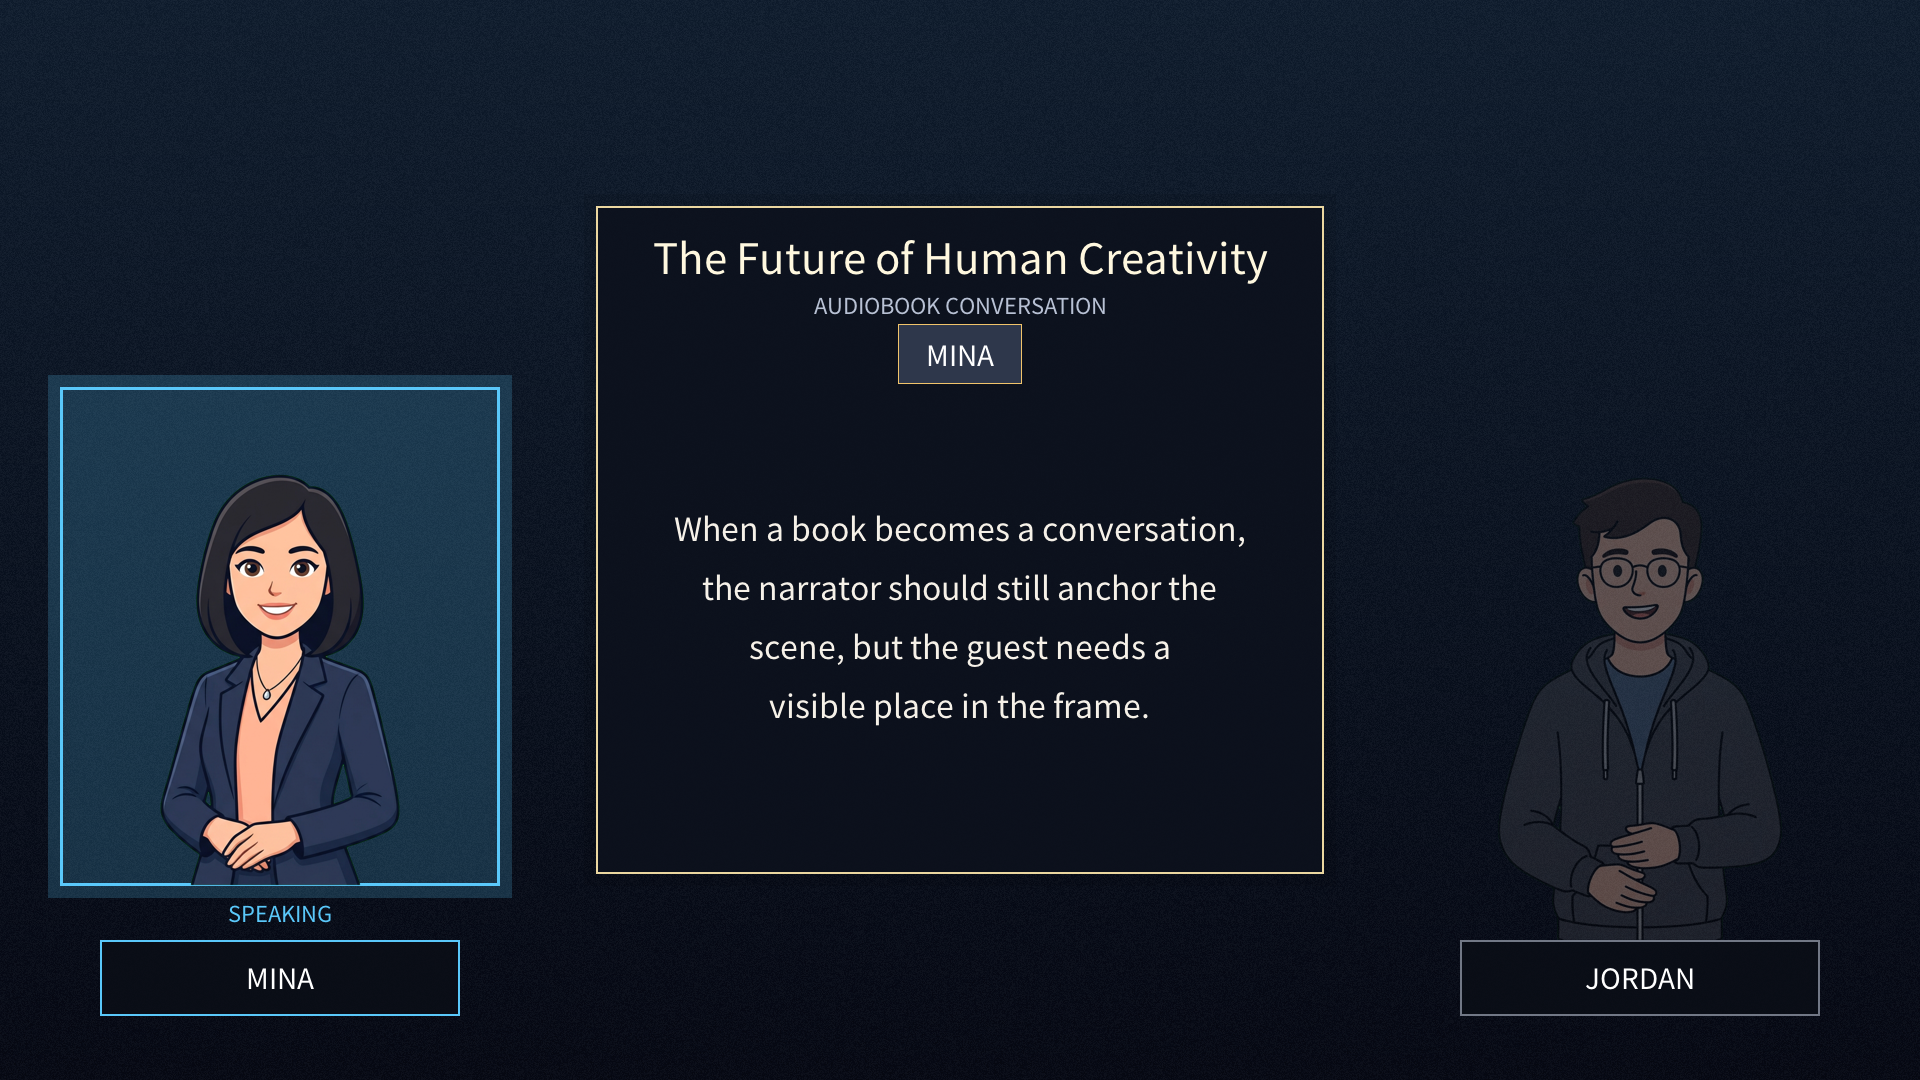
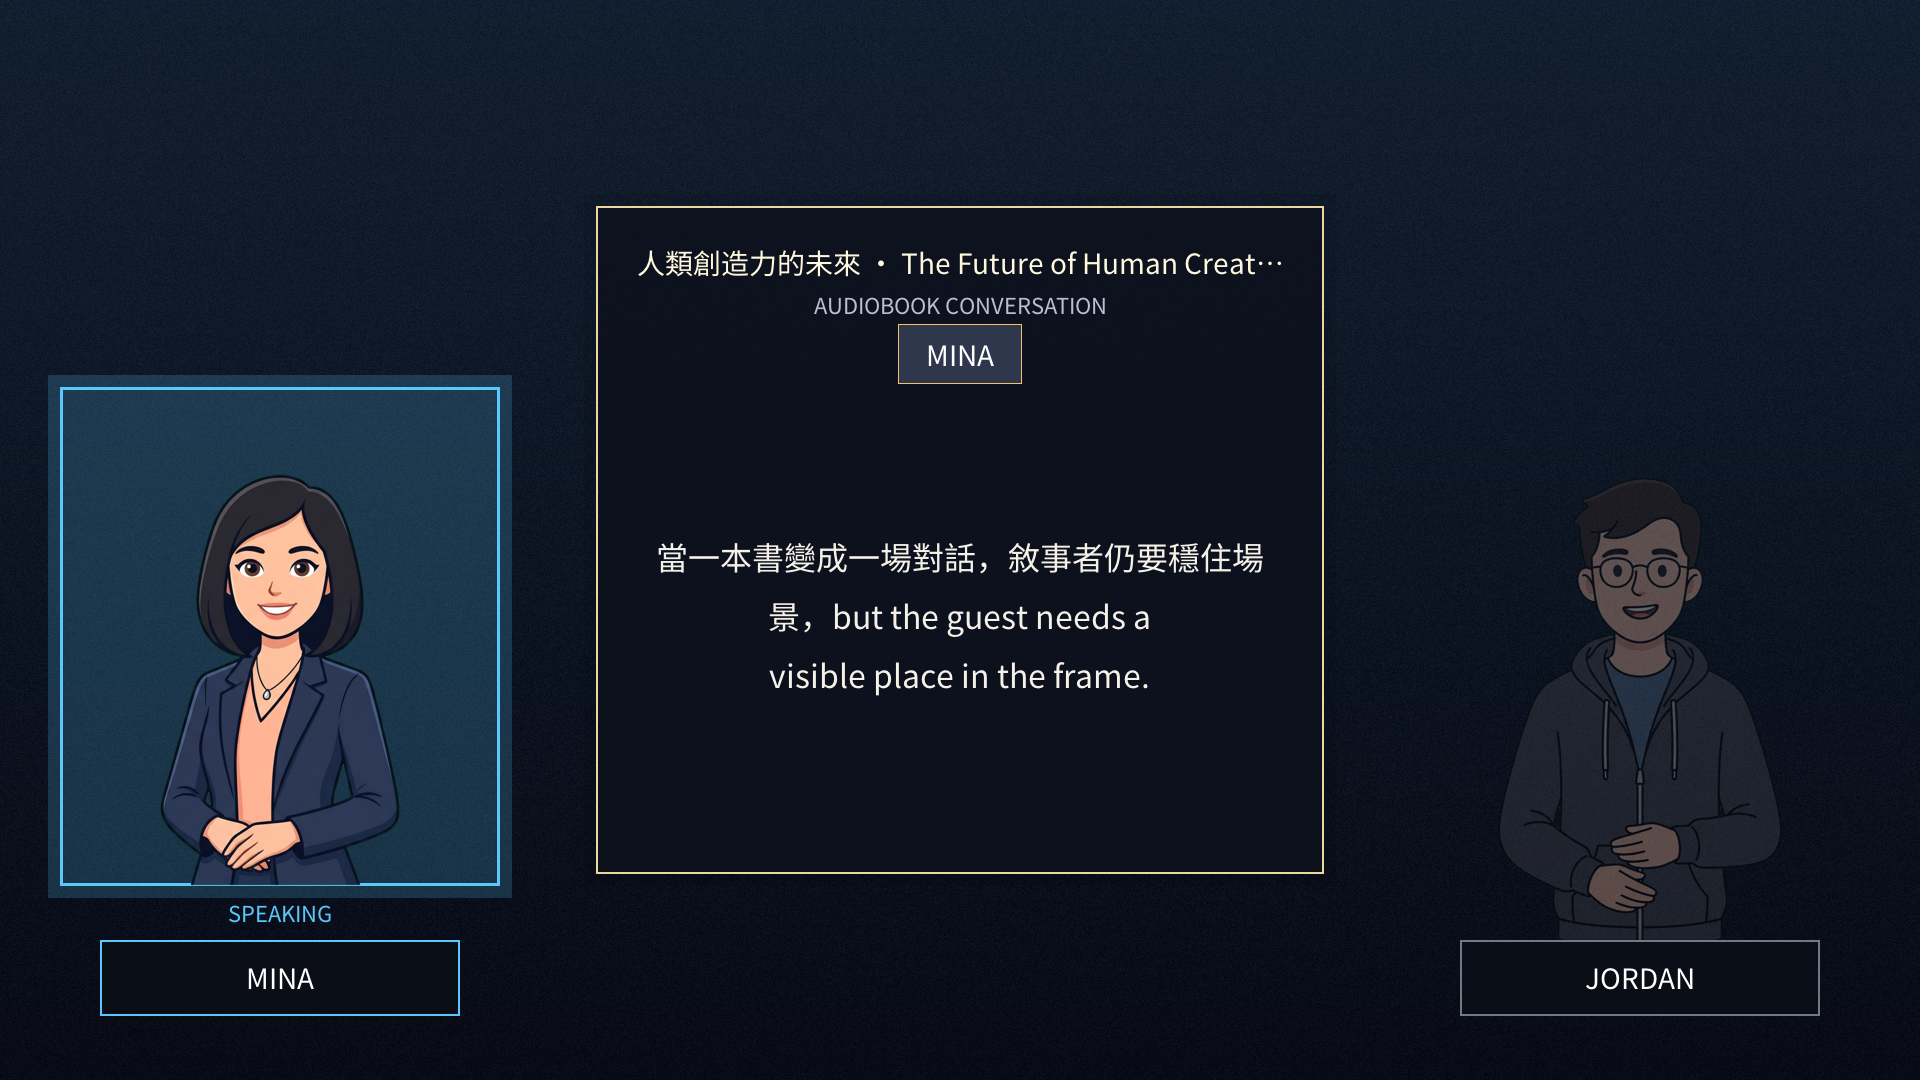
fix: cjk font in docker

Changed region(s): [[0.3438, 0.4583, 0.6562, 0.6722], [0.3438, 0.2139, 0.6562, 0.275]]

diff --git a/cmd/render-smoke/main.go b/cmd/render-smoke/main.go
@@ -13,7 +13,9 @@
 //	  out/puzzle-render-smoke/.
 //	--mode audiobook: emits an mp4 for the audiobook conversational
 //	  post-pass renderer: left/right characters, content centered, generated
-//	  backgrounds behind it. Output goes to out/audiobook-render-smoke/.
+//	  backgrounds behind it. Title and lines mix Chinese and English so a
+//	  missing CJK font shows up as tofu in the output. Output goes to
+//	  out/audiobook-render-smoke/.
 //	--mode puzzle-fade: emits an mp4 that demonstrates the cinematic name-
 //	  plate fade-in / hold / fade-out so we can eyeball the smoothstep
 //	  curve without having to wait the full 22 s hold in real time. Output
@@ -657,16 +659,20 @@ func runAudioBook(out string) error {
 	}
 
 	videoPath := filepath.Join(out, "video.mp4")
+	// The title and two of the lines are deliberately Chinese: production runs
+	// render CJK content, and a runtime image without a usable CJK font
+	// silently falls back to Latin-only embedded fonts (missing glyphs). Any
+	// tofu boxes in the output mean the font setup regressed.
 	opts := video.AudioBookVideoOptions{
 		Style:    "conversational",
-		Title:    "The Future of Human Creativity",
+		Title:    "人類創造力的未來 · The Future of Human Creativity",
 		Host:     "Mina",
 		Speakers: []string{"Mina", "Jordan"},
 		Avatars:  avatars,
 		Lines: []video.AudioBookVideoLine{
 			{Speaker: "Mina", Text: "When a book becomes a conversation, the narrator should still anchor the scene, but the guest needs a visible place in the frame."},
-			{Speaker: "Jordan", Text: "Right. Put the characters on the left and right, keep the content in the middle, and let the generated art stay as the background."},
-			{Speaker: "Mina", Text: "That way a conversational audiobook feels like a staged exchange instead of a static slideshow."},
+			{Speaker: "Jordan", Text: "沒錯。把角色放在畫面左右兩側，內容置中，讓生成的場景圖留在背景，整體才有舞台感。"},
+			{Speaker: "Mina", Text: "這樣一來，對話式有聲書看起來就像一場真正的交流，而不是靜態的幻燈片。Mixed CJK + Latin must both render."},
 		},
 	}
 	if err := video.RenderAudioBookVideoWithOptions(videoPath, audioPath, "", imagePaths, video.Resolution1080p, opts); err != nil {

diff --git a/internal/video/style_golden_test.go b/internal/video/style_golden_test.go
@@ -207,8 +207,11 @@ func styleCases() []styleCase {
 		}},
 
 		// ---- audiobook conversation (left/right speaker avatars + center panel) ----
+		// Title and body mix Chinese and English on purpose: audiobook content
+		// is frequently CJK, and this is the guard that catches a renderer or
+		// font regression that drops CJK glyphs (Latin-only fallback).
 		{kind: "audiobook", name: "01-conversation", setup: func(r *Renderer) {
-			r.SetTopic("The Future of Human Creativity")
+			r.SetTopic("人類創造力的未來 · The Future of Human Creativity")
 			settle(r)
 		}, render: func(t *testing.T, r *Renderer) *image.RGBA {
 			avatars := map[string]*image.RGBA{
@@ -221,7 +224,7 @@ func styleCases() []styleCase {
 				avatars,
 				audioBookConversationSegment{
 					Speaker: "Mina",
-					Text:    "When a book becomes a conversation, the narrator should still anchor the scene, but the guest needs a visible place in the frame.",
+					Text:    "當一本書變成一場對話，敘事者仍要穩住場景，but the guest needs a visible place in the frame.",
 					Seconds: 3,
 				},
 			)

diff --git a/README.md b/README.md
@@ -217,10 +217,13 @@ Open the web UI and upload a `script.md`; the server renders an MP4 you can down
 Generation jobs (podcast renders, summaries, mindmaps, PPT/PDF exports,
 audiobook videos, planning turns) run through a RabbitMQ work queue with up
 to 3 attempts and exponential backoff. Set `RABBITMQ_URL` to enable the
-durable broker-backed queue (`make rabbitmq-dev` starts one via Homebrew);
-without it the server falls back to an in-process queue with the same retry
-semantics but no durability across restarts. `MQ_QUEUE_PREFIX` optionally
-prefixes queue names for isolation (used by the E2E harness).
+durable broker-backed queue — locally, `docker compose up -d` starts one
+(see `docker-compose.yml`; `.env` already points at it), or use
+`make rabbitmq-dev` for a Homebrew broker on machines without Docker.
+Without `RABBITMQ_URL` the server falls back to an in-process queue with
+the same retry semantics but no durability across restarts.
+`MQ_QUEUE_PREFIX` optionally prefixes queue names for isolation (used by
+the E2E harness).
 
 Video/dashboard-mode flags:
 